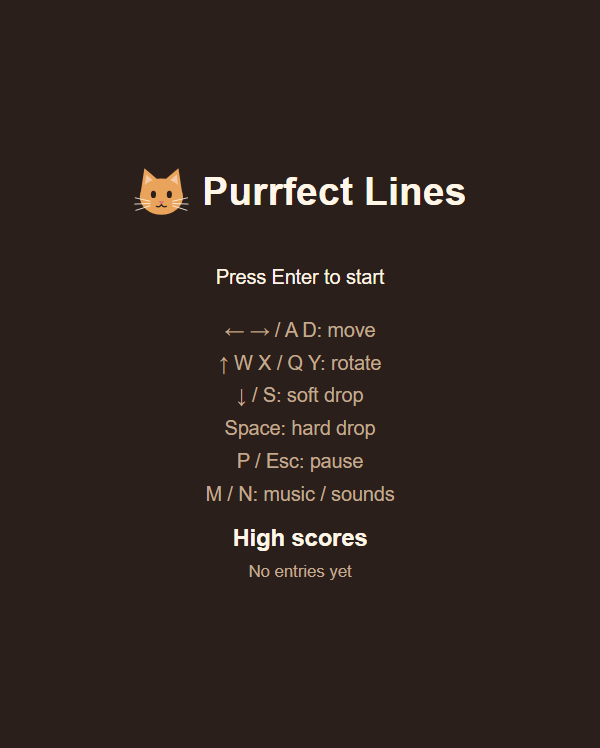
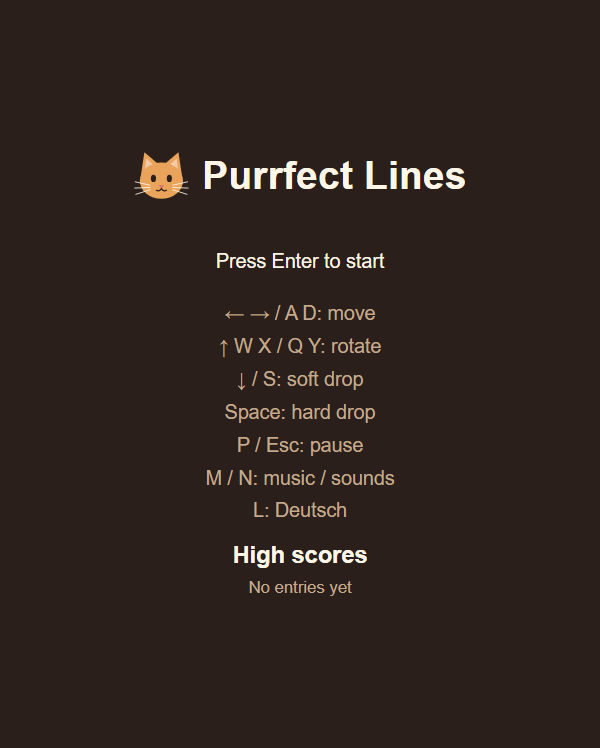
Apply the documentation review findings of milestone 8
Describe the English date as M/D/YYYY, the preferred browser language and how the language is tested; fix the screenshots to English and render them again with the new L line.

Changed region(s): [[0.33, 0.3382, 0.66, 0.7995], [0.21, 0.1845, 0.78, 0.3075]]

diff --git a/src/i18n/format.ts b/src/i18n/format.ts
@@ -1,7 +1,7 @@
 // Formatting values in the chosen language (A28, A38).
 import type { Language } from './texts';
 
-/** German dates as DD.MM.YYYY; English keeps the browser's short form, e.g. 2/1/2026. */
+/** German dates as DD.MM.YYYY, English as M/D/YYYY, whatever the browser's settings (1 February: 01.02.2026, 2/1/2026). */
 const DATE_FORMATS: Readonly<Record<Language, { locale: string; options: Intl.DateTimeFormatOptions }>> = {
   en: { locale: 'en', options: {} },
   de: { locale: 'de-DE', options: { day: '2-digit', month: '2-digit', year: 'numeric' } },

diff --git a/playwright.screenshots.config.ts b/playwright.screenshots.config.ts
@@ -12,6 +12,8 @@ export default defineConfig({
     baseURL: 'http://localhost:5173',
     viewport: { width: 600, height: 750 },
     deviceScaleFactor: 1,
+    // The pictures are for the English README, whatever the system language.
+    locale: 'en-US',
   },
   webServer: {
     command: 'npm run serve',

diff --git a/docs/DEVELOPMENT.md b/docs/DEVELOPMENT.md
@@ -61,6 +61,13 @@ the audio output. To listen, press any key first (browsers allow sound only
 after a key press). `?slow` slows down the game and with it the sound events,
 but not the music: its tempo depends only on the level.
 
+Language works the same way: `startLanguage(saved, browserLanguage)` in
+`src/i18n/language.ts` gets `navigator.language` passed in and is
+unit-tested, like the date format and the completeness of the text tables
+(`src/i18n/*.test.ts`). The browser tests in `e2e/language.spec.ts` set the
+browser language with Playwright's `locale` option and read the page language
+from `<html lang>`.
+
 Checklist items with a long key sequence (e.g. clearing four rows at once with
 a fixed seed) can be replayed and checked by a script instead of by hand. With
 `npm run serve` running, the browser console of the game's tab can load the
@@ -96,12 +103,13 @@ The high score list and the settings are in the browser's localStorage under
 `purrfect-lines.highscores` and `purrfect-lines.settings`, as JSON. The
 settings hold `lastName` (the name entered last, text), `music` and `sounds`
 (true or false), and `language` (`"en"` or `"de"`) once a language was chosen
-with L; without it the game follows the browser language. Every origin has its own storage, so the
-development server (port 5173) and `npm run preview` (port 4173) keep separate
-lists. To start over, delete both keys in the browser's developer tools
-(Application → Local storage) or run `localStorage.clear()` in the console of
-the game's tab, which empties the storage of that origin.
-Browser tests start with an empty storage in every test.
+with L; without it the game follows the browser language. Every origin has
+its own storage, so the development server (port 5173) and `npm run preview`
+(port 4173) keep separate lists. To start over, delete both keys in the
+browser's developer tools (Application → Local storage) or run
+`localStorage.clear()` in the console of the game's tab, which empties the
+storage of that origin. Browser tests start with an empty storage in every
+test.
 
 All storage access goes through `src/storage/persistence.ts`, which never
 throws: unreadable data is replaced by an empty list or the default settings,
@@ -120,7 +128,9 @@ npm run screenshots
 Renders the pictures in [docs/images/](images/) with Playwright: start
 screen, a game in progress, a row lighting up, the pause menu and the game
 over screen, plus the animated `gameplay.apng.png` for the README. The scenes
-are in `scripts/screenshots.spec.ts`. They use `?seed=1` and, where a piece
+are in `scripts/screenshots.spec.ts`. The browser language is fixed to
+English (`locale` in `playwright.screenshots.config.ts`), so the pictures
+match the README. They use `?seed=1` and, where a piece
 falls, `?slow=10`, so the still pictures come out the same on every run. The
 animation runs at normal speed and its timing varies a little; the run fails
 if its row is not cleared. Its frames go to `test-results/screenshots/`

diff --git a/README.md b/README.md
@@ -115,15 +115,15 @@ the game runs; there are no audio files.
 ## Language
 
 The game speaks English and German. On the first start it uses German if
-your browser's language is German (any language code starting with `de`,
+your browser's preferred language is German (any language code starting with `de`,
 e.g. `de-DE` or `de-AT`), otherwise English.
 
 - **L** on the start screen switches between English and German; the line
   "L: Deutsch" or "L: English" there names the other language. The choice is
   saved like the high score list and wins over the browser language from then
   on. Until you press L, the game follows the browser language.
-- Dates in the high score list follow the language: German as DD.MM.YYYY
-  (e.g. 11.11.2026), English in the browser's short form (e.g. 11/11/2026).
+- Dates in the high score list follow the language: German as DD.MM.YYYY,
+  English as M/D/YYYY (1 February 2026 is 01.02.2026 or 2/1/2026).
 
 ## Controls
 
